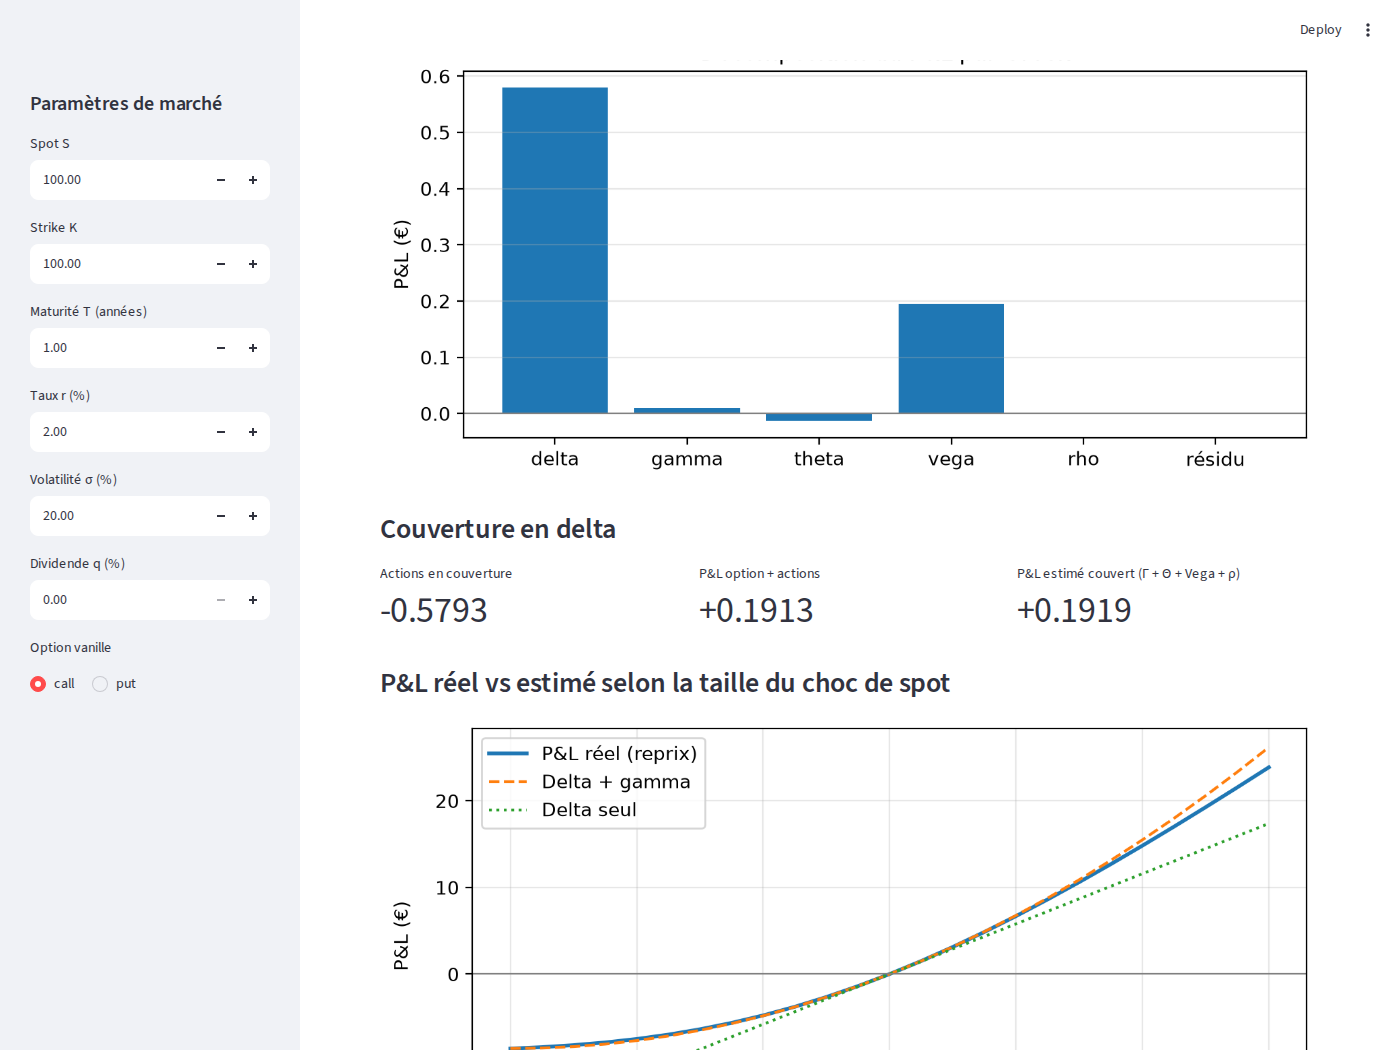
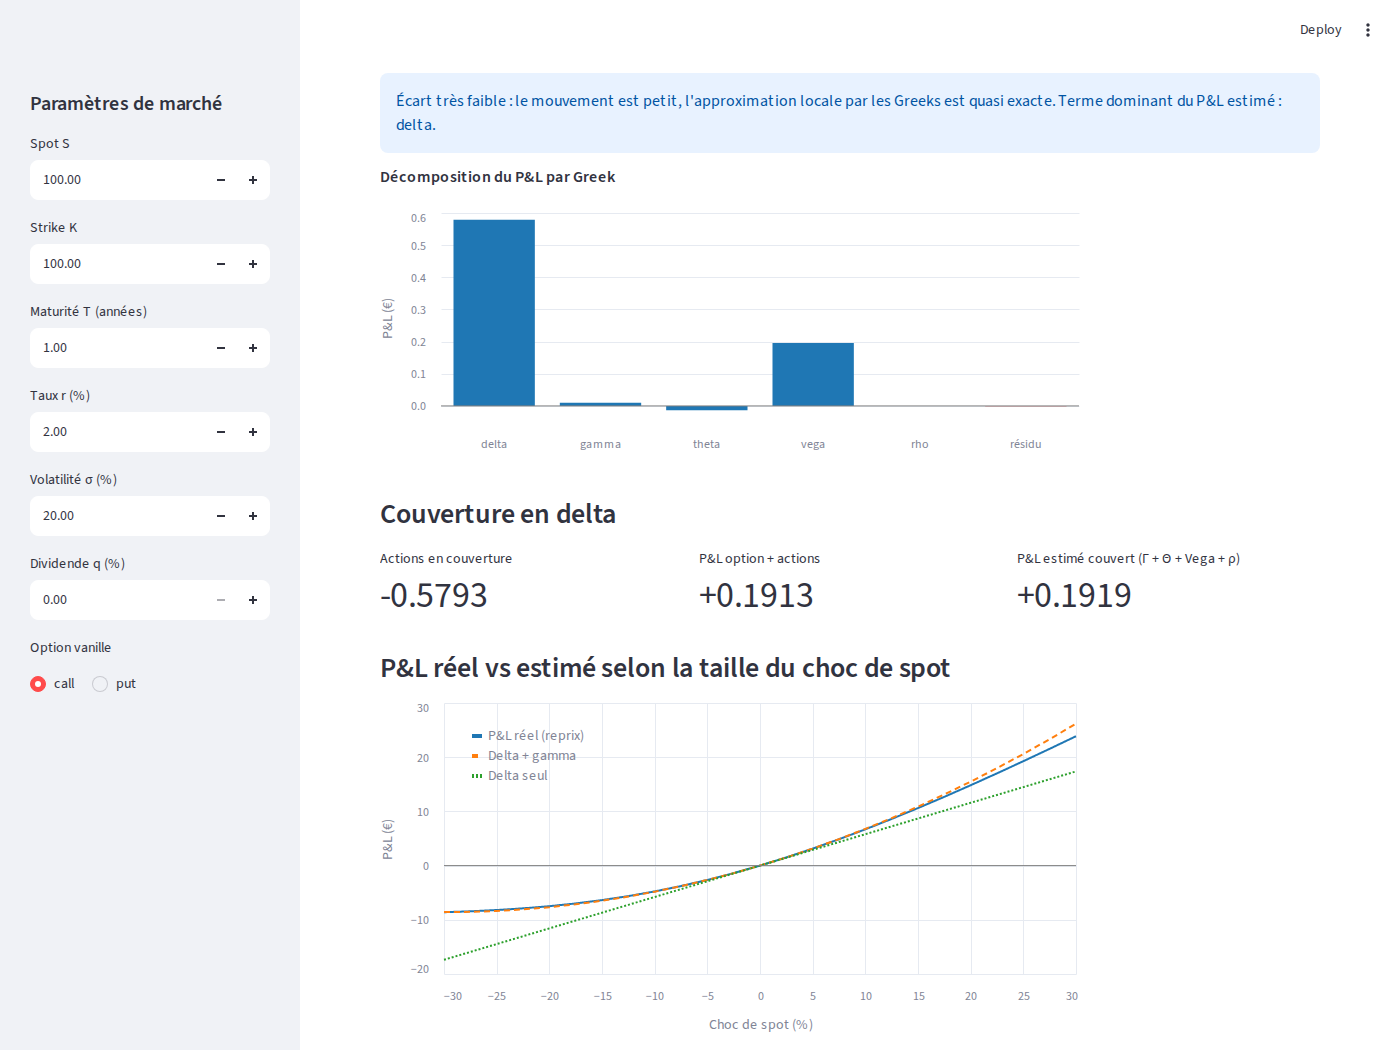
tous les graphiques de l'app en altair
- matplotlib n'est pas thread-safe : avec les reruns de Streamlit, le
  graphique des probabilites de rappel se deformait parfois
- probabilites de rappel, decomposition du P&L et balayage du spot en altair
  (taille fixe, axe 0-100% pour les probabilites)
- l'app n'utilise plus matplotlib ; test_app verifie 4 graphiques altair, 0 image
- capture du README mise a jour

diff --git a/app.py b/app.py
@@ -2,11 +2,14 @@
 # Interface Streamlit du projet : lancer avec "streamlit run app.py" depuis la racine.
 # L'app ne contient pas de formule : elle appelle uniquement les modules du projet.
 
-import io
 import numpy as np
-import matplotlib.pyplot as plt
 import altair as alt
 import streamlit as st
+
+# Les graphiques de l'app sont faits avec Altair (dessinés par le navigateur) et pas
+# avec matplotlib : matplotlib n'est pas thread-safe, et Streamlit relance le script
+# à chaque changement de paramètre pendant que l'ancien calcul dessine encore,
+# ce qui déformait parfois les images.
 
 from pricing.black_scholes import prix_call, prix_put
 from pricing.implied_vol import implied_vol
@@ -60,18 +63,6 @@ def stress_autocall_cache(S0, T, r, sigma, q, n_trajectoires, seed, chocs_spot, 
         res = stress_vol_autocall(S0, T, r, sigma, q, choc, n_trajectoires, seed)
         lignes.append({"scénario": f"vol {choc * 100:+.0f} pts", **res})
     return lignes
-
-
-def afficher_graphique(fig):
-    # On n'utilise pas st.pyplot : il étire l'image sur toute la page et recadre la
-    # figure ("tight"), donc la taille change avec la fenêtre et les valeurs.
-    # Ici la figure est enregistrée en PNG à taille fixe (figsize x dpi),
-    # puis affichée avec une largeur fixe de 700 px.
-    fig.tight_layout()
-    image = io.BytesIO()
-    fig.savefig(image, format="png", dpi=200)
-    plt.close(fig)
-    st.image(image, width=700)
 
 
 onglet_pricing, onglet_autocall, onglet_scenarios, onglet_pnl = st.tabs([
@@ -195,12 +186,13 @@ with onglet_autocall:
 
     dates = ["3 mois", "6 mois", "9 mois", "12 mois"]
     probas = [resultat[f"probabilite_rappel_mois_{m}"] for m in (3, 6, 9, 12)]
-    fig, ax = plt.subplots(figsize=(7, 3))
-    ax.bar(dates, [p * 100 for p in probas])
-    ax.set_ylabel("Probabilité (%)")
-    ax.set_title("Probabilité de rappel à chaque date d'observation")
-    ax.grid(axis="y", alpha=0.3)
-    afficher_graphique(fig)
+    barres = [{"Date": d, "Probabilité (%)": p * 100} for d, p in zip(dates, probas)]
+    graphique = alt.Chart(alt.Data(values=barres)).mark_bar().encode(
+        x=alt.X("Date:N", sort=dates, title=None, axis=alt.Axis(labelAngle=0)),
+        y=alt.Y("Probabilité (%):Q", scale=alt.Scale(domain=[0, 100])),
+        tooltip=["Date:N", alt.Tooltip("Probabilité (%):Q", format=".2f")],
+    ).properties(title="Probabilité de rappel à chaque date d'observation", height=300)
+    st.altair_chart(graphique, width=700)
 
     st.subheader("Convergence")
     st.write("L'erreur standard diminue en 1/√N : 4 fois plus de trajectoires divisent l'erreur par 2.")
@@ -271,13 +263,19 @@ with onglet_pnl:
 
     noms = list(resultat["contributions"].keys()) + ["résidu"]
     valeurs = list(resultat["contributions"].values()) + [resultat["ecart"]]
-    fig, ax = plt.subplots(figsize=(7, 3))
-    ax.bar(noms, valeurs, color=["tab:blue"] * 5 + ["tab:red"])
-    ax.axhline(0, color="grey", linewidth=0.8)
-    ax.set_ylabel("P&L (€)")
-    ax.set_title("Décomposition du P&L par Greek")
-    ax.grid(axis="y", alpha=0.3)
-    afficher_graphique(fig)
+    barres = []
+    for nom, valeur in zip(noms, valeurs):
+        couleur = "#d62728" if nom == "résidu" else "#1f77b4"
+        barres.append({"Terme": nom, "P&L (€)": valeur, "couleur": couleur})
+    graphique = alt.Chart(alt.Data(values=barres)).mark_bar().encode(
+        x=alt.X("Terme:N", sort=noms, title=None, axis=alt.Axis(labelAngle=0)),
+        y=alt.Y("P&L (€):Q", title="P&L (€)"),
+        color=alt.Color("couleur:N", scale=None),
+        tooltip=["Terme:N", alt.Tooltip("P&L (€):Q", format="+.4f")],
+    )
+    zero = alt.Chart(alt.Data(values=[{"y": 0}])).mark_rule(color="grey").encode(y="y:Q")
+    graphique = (graphique + zero).properties(title="Décomposition du P&L par Greek", height=300)
+    st.altair_chart(graphique, width=700)
 
     st.subheader("Couverture en delta")
     couverture = pnl_couverture_delta(
@@ -294,13 +292,22 @@ with onglet_pnl:
         S, K, T, r, sigma, q, type_option,
         chocs=list(np.linspace(-0.30, 0.30, 25)), quantite=quantite
     )
-    fig, ax = plt.subplots(figsize=(7, 3.5))
-    ax.plot([l["choc_spot"] * 100 for l in lignes], [l["pnl_reel"] for l in lignes], label="P&L réel (reprix)", linewidth=2)
-    ax.plot([l["choc_spot"] * 100 for l in lignes], [l["pnl_estime"] for l in lignes], "--", label="Delta + gamma")
-    ax.plot([l["choc_spot"] * 100 for l in lignes], [l["pnl_delta_seul"] for l in lignes], ":", label="Delta seul")
-    ax.axhline(0, color="grey", linewidth=0.8)
-    ax.set_xlabel("Choc de spot (%)")
-    ax.set_ylabel("P&L (€)")
-    ax.legend(fontsize="small")
-    ax.grid(alpha=0.3)
-    afficher_graphique(fig)
+    noms_courbes = ["P&L réel (reprix)", "Delta + gamma", "Delta seul"]
+    cles = ["pnl_reel", "pnl_estime", "pnl_delta_seul"]
+    points = []
+    for ligne in lignes:
+        for nom, cle in zip(noms_courbes, cles):
+            points.append({"Choc de spot (%)": float(ligne["choc_spot"]) * 100, "P&L (€)": ligne[cle], "Courbe": nom})
+
+    courbes = alt.Chart(alt.Data(values=points)).mark_line().encode(
+        x=alt.X("Choc de spot (%):Q"),
+        y=alt.Y("P&L (€):Q", title="P&L (€)"),
+        color=alt.Color("Courbe:N", title=None,
+                        scale=alt.Scale(domain=noms_courbes, range=["#1f77b4", "#ff7f0e", "#2ca02c"]),
+                        legend=alt.Legend(orient="top-left", labelLimit=0)),
+        strokeDash=alt.StrokeDash("Courbe:N", legend=None,
+                                  scale=alt.Scale(domain=noms_courbes, range=[[1, 0], [6, 4], [2, 2]])),
+        tooltip=["Courbe:N", alt.Tooltip("Choc de spot (%):Q", format="+.1f"), alt.Tooltip("P&L (€):Q", format="+.4f")],
+    )
+    zero = alt.Chart(alt.Data(values=[{"y": 0}])).mark_rule(color="grey").encode(y="y:Q")
+    st.altair_chart((courbes + zero).properties(height=350), width=700)

diff --git a/tests/test_app.py b/tests/test_app.py
@@ -17,8 +17,10 @@ def test_app_se_lance_sans_erreur():
     # Aucun avertissement affiché (ex. option dépréciée de st.pyplot)
     assert not app.warning
     assert len(app.tabs) == 4
-    # Le graphique du payoff est un graphique Altair (dessiné par le navigateur), pas une image
-    assert len(app.get("vega_lite_chart")) == 1
+    # Les 4 graphiques sont en Altair (dessinés par le navigateur) et aucun n'est une image
+    # matplotlib, qui se déformait parfois quand on changeait les paramètres
+    assert len(app.get("vega_lite_chart")) == 4
+    assert len(app.get("image")) == 0
 
 
 def test_app_put_et_gros_choc():
